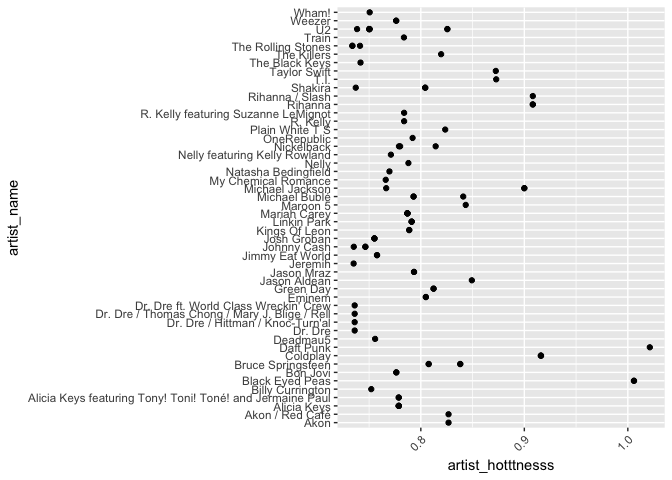
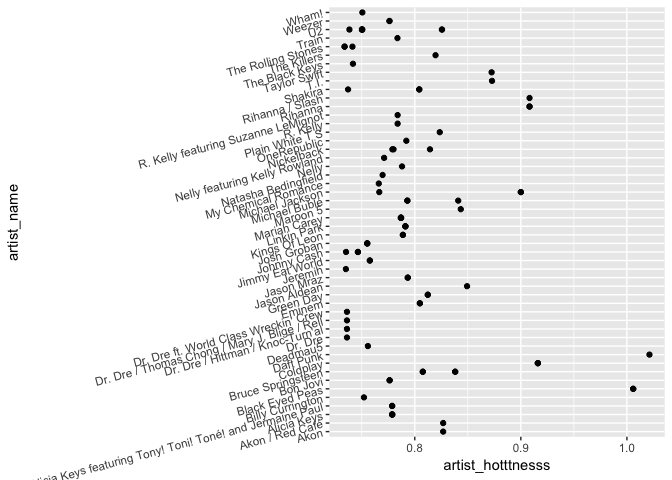
Updates

diff --git a/hw_05/hw05_factors_figureManagement.md b/hw_05/hw05_factors_figureManagement.md
@@ -221,28 +221,75 @@ fct_reorder(singer_yrdrop$artist_name, singer_yrdrop$artist_hotttnesss,
 
 Create plots to compare the difference between arrange() and fct\_reorder(). I'm using the 0.75 of artist\_hotttnesss as the minimum threshold for filtering artist\_name
 
+##### plotting arrange()
+
+Plotting the values by only using arrange does not reorder the points on the graph
+
 ``` r
 ## arrange artist_name by artist_hotttnesss
 top25 <- singer_yrdrop %>% 
-      filter(artist_hotttnesss >= 0.73) %>% 
+      filter(artist_hotttnesss >= 0.75) %>% 
       arrange(desc(artist_hotttnesss)) %>% 
       ggplot(aes(x = artist_hotttnesss, y = artist_name)) +
       geom_point() +
-      theme(axis.text.x = element_text(angle = 45, hjust = 1))
-
-top25_reorder <- singer_yrdrop %>% 
-      filter(artist_hotttnesss >= 0.73) %>% 
-      ggplot(aes(x = artist_hotttnesss, y = fct_reorder(artist_name, artist_hotttnesss))) +
-      geom_point() +
-      theme(axis.text.x = element_text(angle = 45, hjust = 1))
+      theme(axis.text.y = element_text(angle = 15, hjust = 1))
 
 top25
 ```
 
-![](hw05_factors_figureManagement_files/figure-markdown_github-ascii_identifiers/plot%20arrange%20vs%20fct_reorder-1.png)
+![](hw05_factors_figureManagement_files/figure-markdown_github-ascii_identifiers/plot%20arrange-1.png)
+
+##### plotting fct\_reorder()
+
+Plotting the values by only using fct\_reorder() gives an graph with ordered points
 
 ``` r
+top25_reorder <- singer_yrdrop %>% 
+      filter(artist_hotttnesss >= 0.75) %>% 
+      ggplot(aes(x = artist_hotttnesss, y = fct_reorder(artist_name, artist_hotttnesss))) +
+      geom_point() +
+      theme(axis.text.y = element_text(angle = 15, hjust = 1))
 top25_reorder
 ```
 
-![](hw05_factors_figureManagement_files/figure-markdown_github-ascii_identifiers/plot%20arrange%20vs%20fct_reorder-2.png)
+![](hw05_factors_figureManagement_files/figure-markdown_github-ascii_identifiers/plot%20fct_reorder-1.png)
+
+##### plotting arrange() + fct\_reorder()
+
+Plotting the values by using arrange () AND fct\_reorder() also gives an graph with ordered points
+
+``` r
+top25_arrange_reorder <- singer_yrdrop %>% 
+      filter(artist_hotttnesss >= 0.75) %>% 
+      arrange(desc(artist_hotttnesss)) %>%
+      ggplot(aes(x = artist_hotttnesss, y = fct_reorder(artist_name, artist_hotttnesss))) +
+      geom_point() +
+      theme(axis.text.x = element_text(angle = 15, hjust = 1))
+top25_arrange_reorder
+```
+
+![](hw05_factors_figureManagement_files/figure-markdown_github-ascii_identifiers/plot%20fct_reorde%20+%20arrange-1.png)
+
+File I/O
+--------
+
+I'm going to save a subsetted dataframe that contains data filtered artist\_hotttnesss &gt;= 0.75, and contained the variables for year, artist name and title.
+
+``` r
+top25_hotness <- singer_yrdrop %>% 
+      filter(artist_hotttnesss >= 0.75) %>% 
+      select(year, artist_name, title, artist_hotttnesss)
+glimpse(top25_hotness)
+```
+
+    ## Observations: 81
+    ## Variables: 4
+    ## $ year              <fctr> 2008, 2003, 2002, 2009, 2005, 2007, 1987, 2...
+    ## $ artist_name       <fctr> Josh Groban, Alicia Keys, Maroon 5, Jason A...
+    ## $ title             <fctr> Awake [Live], You Don't Know My Name, Sunda...
+    ## $ artist_hotttnesss <dbl> 0.7551499, 0.7786736, 0.8433803, 0.8492910, ...
+
+``` r
+## Save file as csv
+write_csv(top25_hotness, "top25_hotness.csv")
+```
